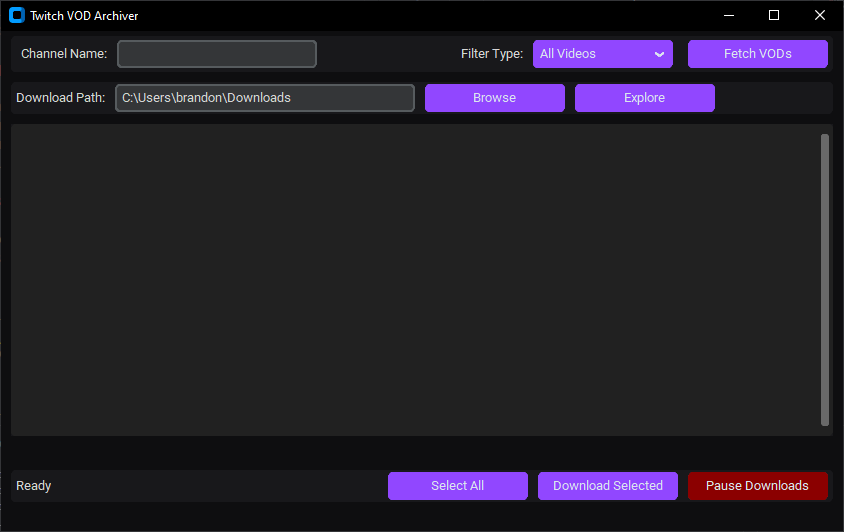
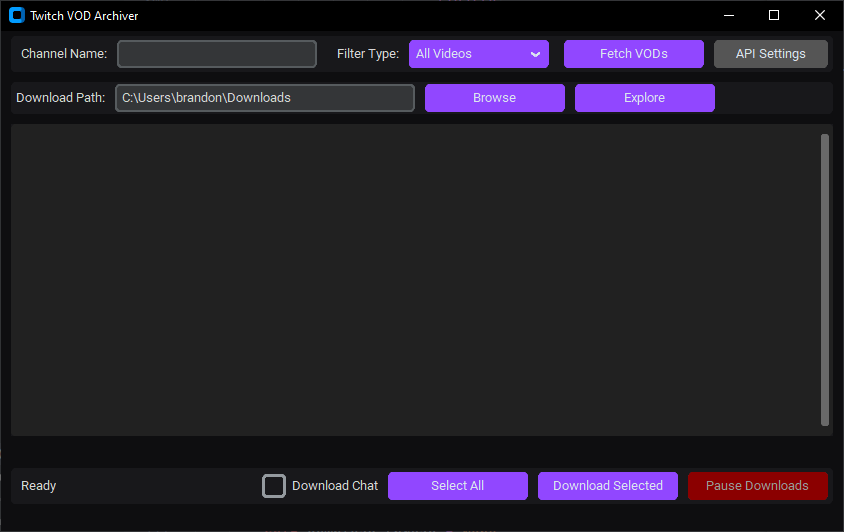
update README with enhanced features, installation instructions,

diff --git a/README.md b/README.md
@@ -9,19 +9,21 @@ A desktop application for downloading Twitch VODs (Video on Demand) with a user-
 ## Features
 
 - Clean and modern dark theme UI matching Twitch's style
-- Fetch VODs from any Twitch channel
+- Fetch VODs from any Twitch channel thats public or you are subscribed to
 - Select multiple VODs for batch downloading
 - Download progress tracking
 - Pause and resume in-progress downloads
 - Customizable download location
 - Quick access to download folder
+- Captures original video titles and dates
+- Supports downloading clips, highlights, collections
+- Supports downloading chat logs
 
 ## Requirements
 
 - Python 3.7+
 - Required packages:
-  - customtkinter
-  - yt-dlp
+  see requirements.txt
 
 ## Installation
 
@@ -31,15 +33,7 @@ A desktop application for downloading Twitch VODs (Video on Demand) with a user-
    git clone https://github.com/byvfx/twitch-archiver.git
    ```
 
-2. Install dependencies using one of these methods:
-
-   Using pip directly:
-
-   ```bash
-   pip install customtkinter yt-dlp
-   ```
-
-   Using requirements.txt:
+2. Install dependencies using pip:
 
    ```bash
    pip install -r requirements.txt
@@ -58,6 +52,8 @@ python main.py
 1. Select the VODs you want to download
 1. Choose download location (defaults to Downloads folder)
 1. Click "Download Selected" to start downloading
+1. Optionally, click "Pause Download" to pause the download, and click "Resume Download" to resume the download
+2. API settings button will open a new window with instructions on how to get the API key
 
 ## Controls
 
@@ -73,10 +69,13 @@ python main.py
 - **Select All**: Selects all VODs in the list
 - **Download Selected**: Starts downloading selected VODs
 - **Pause Download**: Pauses current and queued downloads
+- **Resume Download**: Resumes paused downloads
+- **API Key**: Enter your Twitch API key (only needed for downloading chat logs)
 
 ## Notes
 
-- Downloads are processed sequentially to avoid overwhelming the network
+- Downloads are processed sequentially to avoid overwhelming the network ( might add the option to download multiple at once in the future)
+- The application uses the Twitch API to fetch VODs, which requires an API key
 - Different filter types access different kinds of content:
   - All Videos typically contains past broadcasts (stored for 14-60 days depending on user level)
   - Highlights are permanently stored stream segments marked by the streamer
@@ -86,10 +85,18 @@ python main.py
 - VODs are saved in their best available quality
 - Downloaded VODs are marked as disabled in the UI
 - The application preserves original video titles and dates
+- After the download is complete, the VODs are automatically converted to MP4 format using yt-dlp which seems to take a while to convert so be patient, i am looking into this.
+- Chat logs are saved in a separate file with the same name as the video
+- The API key is only needed for downloading chat logs, and can be obtained from the Twitch Developer Dashboard, i put insructions on how to get the API key in the application itself.
+- The application saves the API key in a file called `config.json` in the user's home directory. I made a button to explore to the location or print it out in the UI.
+- Currently looking into encrypt the API key in the config file for future releases.
 
 ## TODO
 
 - [x] Add support for downloading clips, highlights, collections
-- [ ] Add support for capturing chat logs
-- [ ] Cancel individual downloads turns out yt-dlp doesn't support a native call to cancel a download
+- [x] Add support for capturing chat logs
 - [x] Add download progress bar - in the current version, not the release
+- [ ] Add support for downloading VODs from specific dates
+- [ ] Speed up encoding from the yt-dlp output
+- [ ] Add encryption for the API key in the config file
+- [ ] Add quality options for downloads
